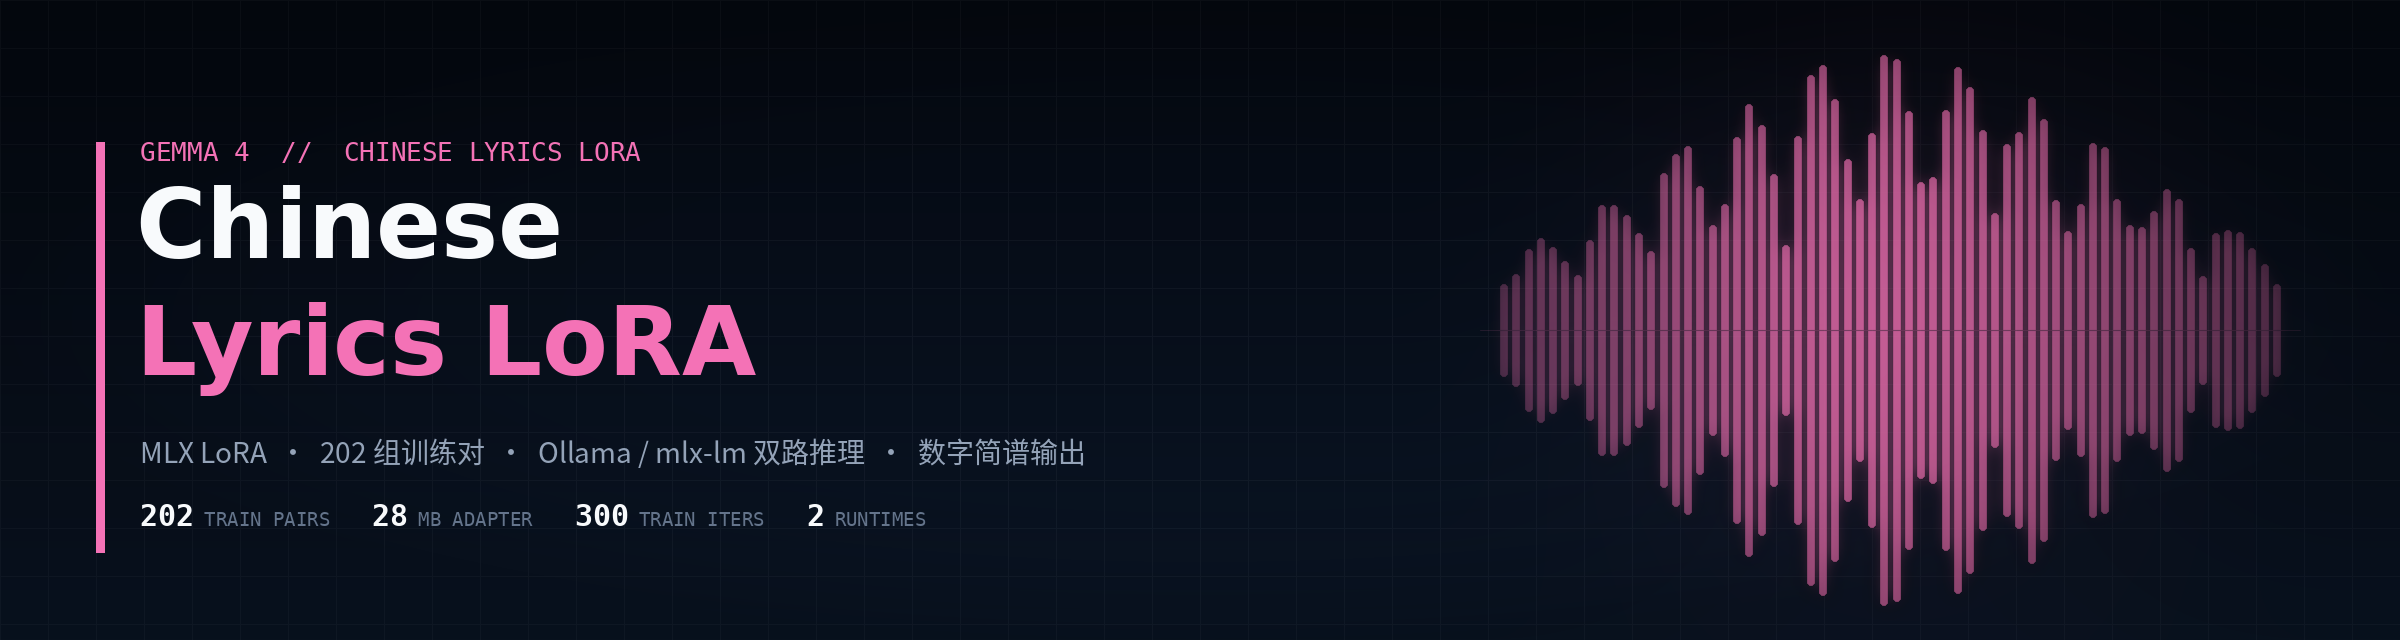
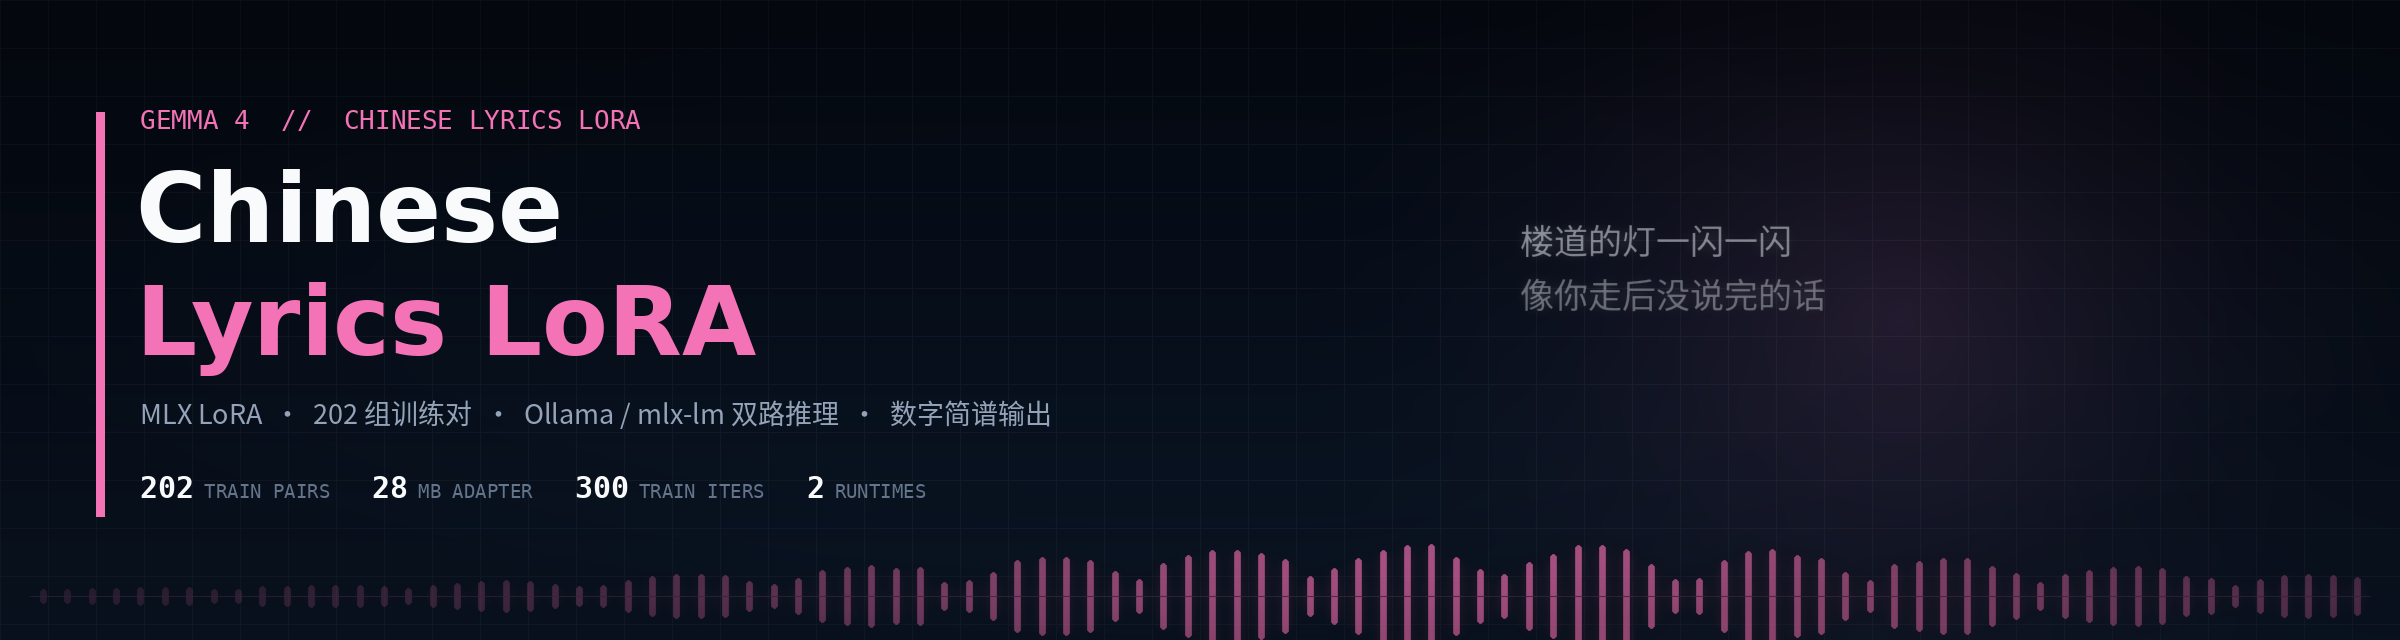
docs(readme): 头图改为波形与歌词摘句，开篇改为链路优先
- 头图：全宽波形 + 来自 Modelfile 示例的歌词摘句，贴合歌词生成
- 开篇先讲完整链路与能力，基座模型缺失改为前置条件说明
- 生成脚本随仓库提供，可复现

diff --git a/docs/assets/generate_banner.py b/docs/assets/generate_banner.py
@@ -1,8 +1,5 @@
 #!/usr/bin/env python3
-"""README banner generator (shared style, per-project config).
-
-Usage: python3 generate_banner.py [output]
-"""
+"""Bespoke README banners, one composition per project."""
 import sys
 from pathlib import Path
 
@@ -10,161 +7,121 @@ import numpy as np
 from PIL import Image, ImageDraw, ImageFilter, ImageFont
 
 W, H = 2400, 640
-CJK = "/usr/share/fonts/opentype/noto/NotoSansCJK-Bold.ttc"
+CJK_B = "/usr/share/fonts/opentype/noto/NotoSansCJK-Bold.ttc"
 CJK_R = "/usr/share/fonts/opentype/noto/NotoSansCJK-Regular.ttc"
 FONT_DIR = Path("/usr/share/matplotlib/mpl-data/fonts/ttf")
-MONO = FONT_DIR / "DejaVuSansMono.ttf"
-MONO_B = FONT_DIR / "DejaVuSansMono-Bold.ttf"
+WHITE = (248, 250, 252)
 
 
-def font(path, size, index=0):
-    return ImageFont.truetype(str(path), size, index=index)
+def f_cjk(size, bold=True):
+    return ImageFont.truetype(CJK_B if bold else CJK_R, size, index=2)
 
 
-def cjk(size, bold=True):
-    return font(CJK if bold else CJK_R, size, index=2)
+def f_sans(size):
+    return ImageFont.truetype(str(FONT_DIR / "DejaVuSans-Bold.ttf"), size)
+
+
+def f_mono(size, bold=False):
+    return ImageFont.truetype(str(FONT_DIR / ("DejaVuSansMono-Bold.ttf" if bold else "DejaVuSansMono.ttf")), size)
+
+
+def use_cjk(text):
+    return any(ord(ch) > 0x2E80 for ch in text)
 
 
 CONFIGS = {
     "lyrics": dict(
         kicker="GEMMA 4  //  CHINESE LYRICS LORA",
-        lines=[("Chinese", 96, "white"), ("Lyrics LoRA", 96, "accent")],
+        lines=[("Chinese", 96), ("Lyrics LoRA", 96)],
         subtitle="MLX LoRA  ·  202 组训练对  ·  Ollama / mlx-lm 双路推理  ·  数字简谱输出",
         metrics=[("202", "TRAIN PAIRS"), ("28", "MB ADAPTER"), ("300", "TRAIN ITERS"), ("2", "RUNTIMES")],
-        accent=(244, 114, 182),
-        motif="wave",
-        seed=5,
+        accent=(244, 114, 182), text_y=118, subtitle_y=392, metrics_y=470,
     ),
 }
 
 
-def gradient(top, bottom):
-    t = np.linspace(0, 1, H)[:, None, None]
-    return np.repeat(np.array(top)[None, None, :] * (1 - t) + np.array(bottom)[None, None, :] * t, W, axis=1)
-
-
 def base():
-    img = gradient((5, 9, 17), (11, 22, 38))
+    t = np.linspace(0, 1, H)[:, None, None]
+    img = np.repeat(np.array((5, 9, 17))[None, None, :] * (1 - t)
+                    + np.array((11, 22, 38))[None, None, :] * t, W, axis=1)
     ys, xs = np.mgrid[0:H, 0:W].astype(float)
     img[((xs % 48) < 1) | ((ys % 48) < 1)] += 9.0
     return img
 
 
-def soft_ring(img, cx, cy, radius, accent, strength=0.22):
+def vignette(canvas):
     ys, xs = np.mgrid[0:H, 0:W].astype(float)
-    r = np.hypot(xs - cx, ys - cy)
-    ring = np.abs(r - radius) < 1.1
-    img += ring[..., None] * np.array(accent) * strength
+    vx = (xs - W / 2) / (W / 2)
+    vy = (ys - H / 2) / (H / 2)
+    vig = 1.0 - 0.20 * np.clip(vx ** 2 + vy ** 2, 0, 1) ** 1.5
+    arr = np.asarray(canvas.convert("RGB"), dtype=float) * vig[..., None]
+    return Image.fromarray(np.clip(arr, 0, 255).astype(np.uint8), "RGB").convert("RGBA")
 
 
-def motif_network(ov, d, accent, seed, cx=1900, cy=330, radius=255):
-    rng = np.random.default_rng(seed)
-    pts = []
-    while len(pts) < 22:
-        x, y = rng.uniform(-1, 1, 2)
-        if x * x + y * y <= 1.0:
-            pts.append((cx + x * radius, cy + y * radius))
-    for i, p in enumerate(pts):
-        near = sorted(((np.hypot(p[0] - q[0], p[1] - q[1]), j) for j, q in enumerate(pts) if j != i))[:2]
-        for _, j in near:
-            d.line([p, pts[j]], fill=accent + (34,), width=1)
-    for ring in (250, 300):
-        d.ellipse([cx - ring, cy - ring, cx + ring, cy + ring], outline=accent + (12,), width=1)
-    for i, p in enumerate(pts):
-        rr = 4.4 if i % 4 == 0 else 2.4
-        color = (248, 250, 252, 235) if i % 4 == 0 else accent + (205,)
-        d.ellipse([p[0] - rr, p[1] - rr, p[0] + rr, p[1] + rr], fill=color)
-    d.ellipse([cx - 5, cy - 5, cx + 5, cy + 5], fill=accent + (240,))
+def halo(img, cx, cy, accent, radius=600, strength=0.20):
+    ys, xs = np.mgrid[0:H, 0:W].astype(float)
+    d = np.hypot(xs - cx, ys - cy) / radius
+    img += (np.clip(1 - d, 0, 1) ** 2 * strength)[..., None] * np.array(accent) * 0.6
 
 
-def motif_wave(d, accent, cx=1890, cy=330):
-    rng = np.random.default_rng(5)
-    n = 64
-    span = 780
-    bw = 7
+def draw_text(canvas, cfg):
+    d = ImageDraw.Draw(canvas)
+    accent = cfg["accent"]
+    left, y = 140, cfg["text_y"]
+    d.rectangle((96, cfg["text_y"] - 6, 104, cfg["metrics_y"] + 46), fill=accent + (190,))
+    d.text((left, y - 14), cfg["kicker"], font=f_mono(26), fill=accent + (255,))
+    y += 34
+    for i, (text, size) in enumerate(cfg["lines"]):
+        f = f_cjk(size) if use_cjk(text) else f_sans(size)
+        d.text((left - 4, y), text, font=f, fill=(WHITE if i == 0 else accent) + (255,))
+        y += int(size * 1.14) + 4
+    d.text((left, cfg["subtitle_y"]), cfg["subtitle"], font=f_cjk(27, bold=False), fill=(148, 163, 184, 255))
+    x = left
+    for value, label in cfg["metrics"]:
+        d.text((x, cfg["metrics_y"]), value, font=f_mono(30, True), fill=WHITE + (255,))
+        wv = d.textlength(value, font=f_mono(30, True))
+        d.text((x + wv + 10, cfg["metrics_y"] + 10), label, font=f_mono(19), fill=(100, 116, 139, 255))
+        x += wv + 10 + d.textlength(label, font=f_mono(19)) + 42
+
+
+# ---------------------------------------------------------------- motifs
+
+def motif_wave(d, accent):
+    rng = np.random.default_rng(3)
+    n = 96
+    span = 2320
+    bw = 6
     gap = (span - n * bw) / (n - 1)
     for i in range(n):
-        x = cx - span / 2 + i * (bw + gap)
-        env = np.exp(-((i - n / 2) / (n / 2.6)) ** 2)
-        h = 30 + 250 * env * (0.25 + 0.75 * abs(np.sin(i * 0.55 + rng.normal(0, 0.15))))
-        alpha = int(40 + 150 * env)
-        d.rounded_rectangle([x, cy - h, x + bw, cy + h], radius=bw / 2, fill=accent + (alpha,))
-    d.line([cx - span / 2 - 20, cy, cx + span / 2 + 20, cy], fill=accent + (40,), width=1)
+        x = 40 + i * (bw + gap)
+        env = np.exp(-((i - n * 0.62) / (n * 0.34)) ** 2)
+        h = 6 + 46 * env * (0.25 + 0.75 * abs(np.sin(i * 0.42 + rng.normal(0, 0.12))))
+        alpha = int(35 + 150 * env)
+        d.rounded_rectangle([x, 596 - h, x + bw, 596 + h], radius=3, fill=accent + (alpha,))
+    d.line([30, 596, 2370, 596], fill=accent + (55,), width=1)
+    # lyric excerpt from the adapter's Modelfile examples
+    d.text((1520, 214), "楼道的灯一闪一闪", font=f_cjk(34, bold=False), fill=(226, 232, 240, 140))
+    d.text((1520, 268), "像你走后没说完的话", font=f_cjk(34, bold=False), fill=(226, 232, 240, 105))
 
 
-def motif_grid(d, accent, cx=1900, cy=330):
-    cols, rows, cell, gap = 7, 5, 74, 14
-    x0 = cx - (cols * cell + (cols - 1) * gap) / 2
-    y0 = cy - (rows * cell + (rows - 1) * gap) / 2
-    hot = {(1, 1), (3, 2), (5, 1), (2, 3), (4, 0)}
-    for r in range(rows):
-        for c in range(cols):
-            x = x0 + c * (cell + gap)
-            y = y0 + r * (cell + gap)
-            if (c, r) in hot:
-                d.rounded_rectangle([x, y, x + cell, y + cell], radius=10, fill=accent + (70,), outline=accent + (200,), width=2)
-                d.ellipse([x + cell / 2 - 7, y + cell / 2 - 7, x + cell / 2 + 7, y + cell / 2 + 7], fill=accent + (230,))
-            else:
-                d.rounded_rectangle([x, y, x + cell, y + cell], radius=10, outline=accent + (34,), width=1)
-
-
-def render(name, out):
-    cfg = CONFIGS[name]
+def render(out):
+    cfg = CONFIGS["lyrics"]
     accent = cfg["accent"]
     img = base()
-
-    # soft halo behind the motif
-    ys, xs = np.mgrid[0:H, 0:W].astype(float)
-    d2 = np.hypot(xs - 1900, ys - 330) / 520.0
-    halo = np.clip(1 - d2, 0, 1) ** 2 * 0.16
-    img += halo[..., None] * np.array(accent) * 0.55
+    halo(img, 1900, 320, accent, 620, 0.20)
 
     ov = Image.new("RGBA", (W, H), (0, 0, 0, 0))
     d = ImageDraw.Draw(ov)
-    if cfg["motif"] == "network":
-        motif_network(ov, d, accent, cfg["seed"])
-    elif cfg["motif"] == "wave":
-        motif_wave(d, accent)
-    else:
-        motif_grid(d, accent)
+    motif_wave(d, accent)
 
-    glow = ov.filter(ImageFilter.GaussianBlur(9))
     canvas = Image.fromarray(np.clip(img, 0, 255).astype(np.uint8), "RGB").convert("RGBA")
-    canvas = Image.alpha_composite(canvas, glow)
+    canvas = Image.alpha_composite(canvas, ov.filter(ImageFilter.GaussianBlur(7)))
     canvas = Image.alpha_composite(canvas, ov.filter(ImageFilter.GaussianBlur(0.4)))
-
-    # vignette before text
-    vx = (xs - W / 2) / (W / 2)
-    vy = (ys - H / 2) / (H / 2)
-    vig = 1.0 - 0.22 * np.clip(vx ** 2 + vy ** 2, 0, 1) ** 1.4
-    arr = np.asarray(canvas.convert("RGB"), dtype=float) * vig[..., None]
-    canvas = Image.fromarray(np.clip(arr, 0, 255).astype(np.uint8), "RGB").convert("RGBA")
-
-    d = ImageDraw.Draw(canvas)
-    d.rectangle((96, 142, 104, 552), fill=accent + (190,))
-    left = 140
-    d.text((left, 136), cfg["kicker"], font=font(MONO, 26), fill=accent + (255,))
-
-    y = 168
-    for text, size, color in cfg["lines"]:
-        f = cjk(size) if any(ord(ch) > 0x2E80 for ch in text) else font(FONT_DIR / "DejaVuSans-Bold.ttf", size)
-        d.text((left - 4, y), text, font=f, fill=(248, 250, 252, 255) if color == "white" else accent + (255,))
-        y += int(size * 1.16) + 6
-
-    d.text((left, 430), cfg["subtitle"], font=cjk(28, bold=False), fill=(148, 163, 184, 255))
-
-    x = left
-    for value, label in cfg["metrics"]:
-        if not value:
-            continue
-        d.text((x, 498), value, font=font(MONO_B, 30), fill=(248, 250, 252, 255))
-        wv = d.textlength(value, font=font(MONO_B, 30))
-        d.text((x + wv + 10, 508), label, font=font(MONO, 19), fill=(100, 116, 139, 255))
-        x += wv + 10 + d.textlength(label, font=font(MONO, 19)) + 42
-
+    canvas = vignette(canvas)
+    draw_text(canvas, cfg)
     canvas.convert("RGB").save(out, optimize=True)
     print(f"wrote {out} ({Path(out).stat().st_size / 1024:.0f} KB)")
 
 
 if __name__ == "__main__":
-    render("lyrics", sys.argv[1] if len(sys.argv) > 1 else "banner.png")
+    render(sys.argv[1] if len(sys.argv) > 1 else "banner.png")

diff --git a/README.md b/README.md
@@ -18,8 +18,7 @@
 
 ---
 
-> [!NOTE]
-> 仓库体积主要来自 28 MB 的 LoRA 适配器与数据集，**不含基座模型**（需从 HuggingFace 下载 Gemma 4 e4b-it）与 `llama.cpp` 仓库。训练与评测在 Apple Silicon 上完成，结果只用于工程对比，不代表通用歌词质量。
+> 一条能跑通的完整链路：数据清洗 → MLX LoRA 微调 → 28 MB 适配器 → Ollama / mlx-lm 双路推理 → 数字简谱。**基座模型不随仓库提供**，训练与评测在 Apple Silicon 上完成。
 
 | 训练对 | 适配器 | 训练步数 | 推理路径 |
 | :---: | :---: | :---: | :---: |
